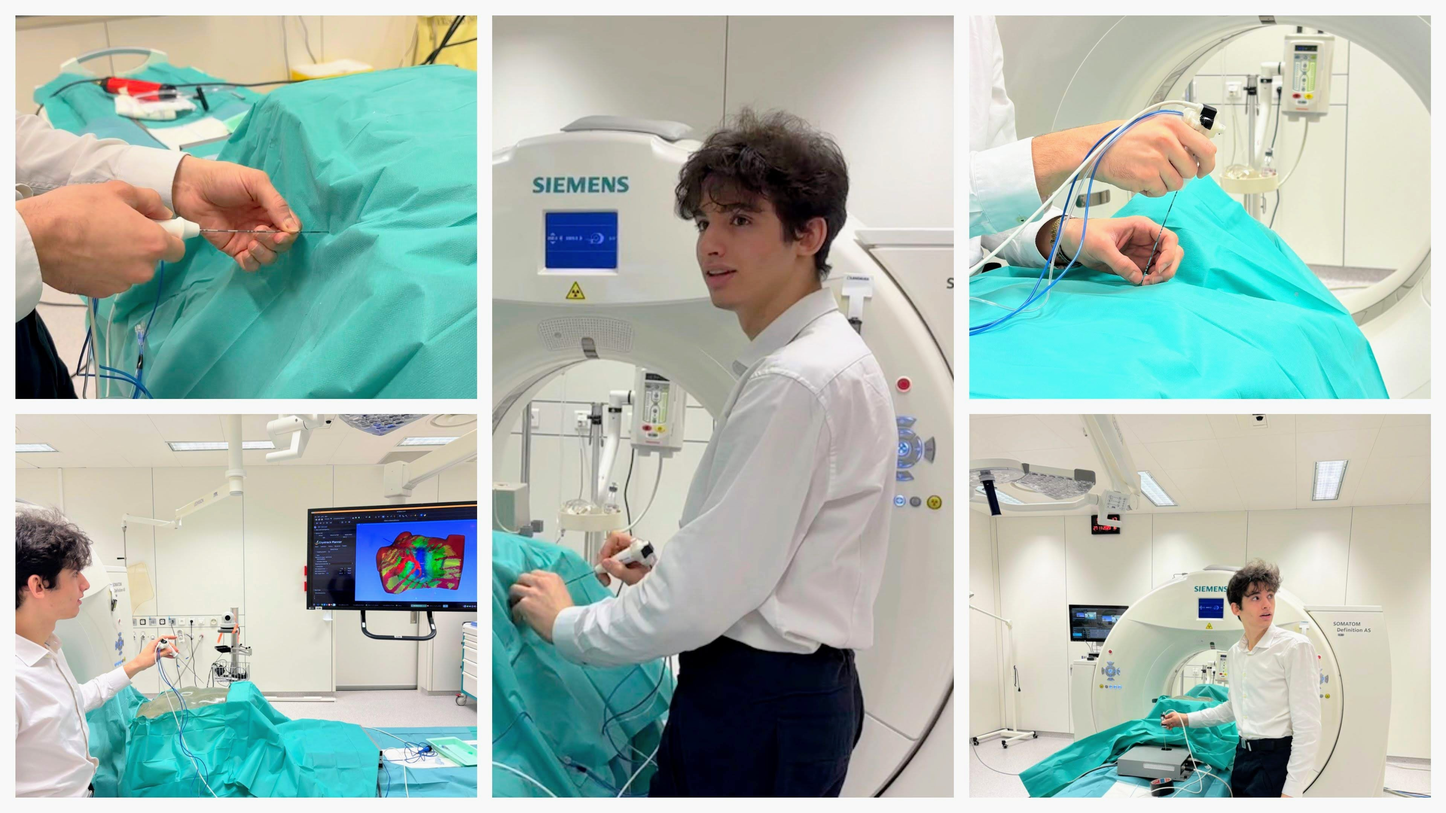
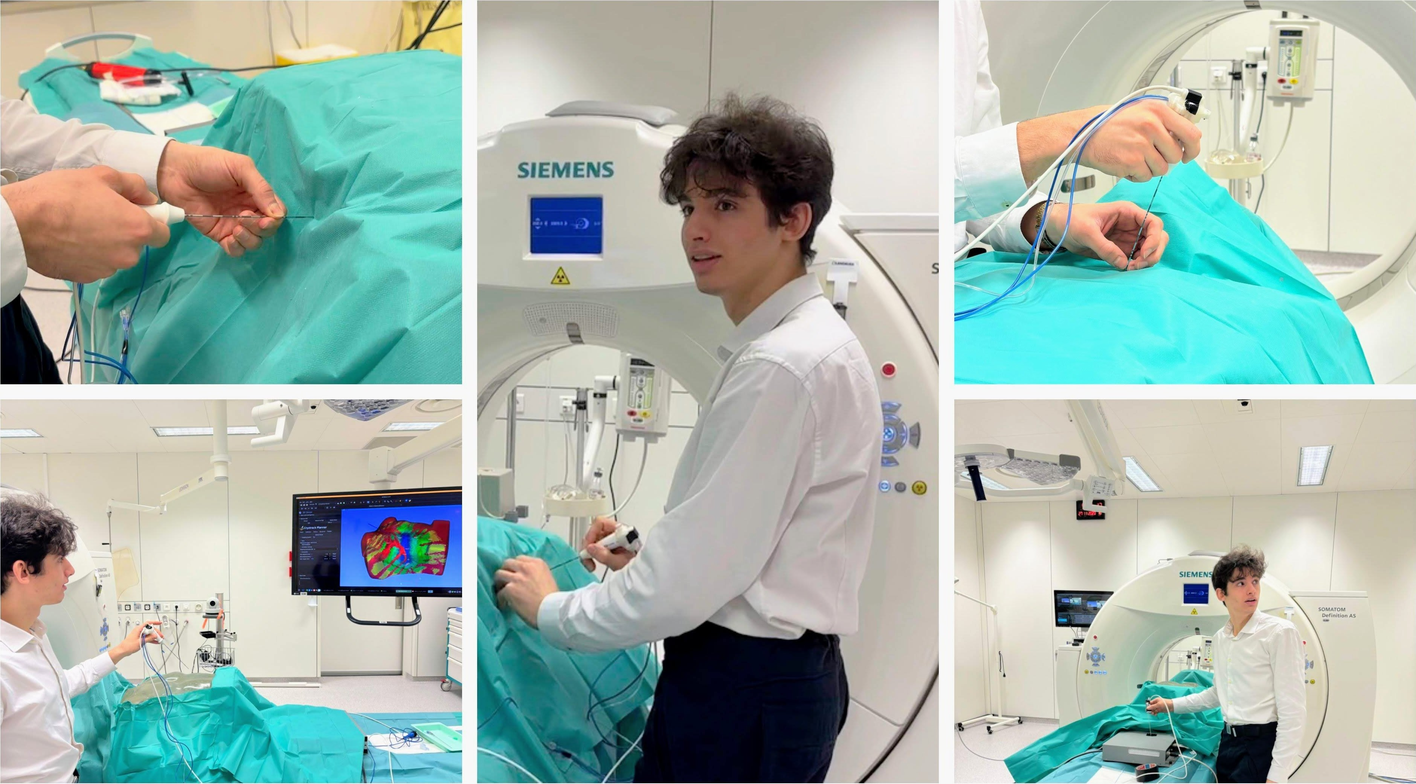
photo bottom gradient sealed to opaque (white scene bleed at corners); fixed beveled-corner artifact

diff --git a/assets/css/main.css b/assets/css/main.css
@@ -103,7 +103,7 @@ html:not(.js) .ignition { display: none; }
 @media (max-width: 980px) { .mleft .photo { max-width: none; } }
 .mleft .photo img { width: 100%; height: 270px; object-fit: cover; object-position: center 20%; display: block; border-radius: 7px; }
 .mleft .photo::after { content: ""; position: absolute; inset: 0; border-radius: 7px;
-    background: linear-gradient(transparent 55%, rgba(12, 15, 20, .88)); }
+    background: linear-gradient(transparent 55%, rgba(12, 15, 20, .92) 80%, #0C0F14 100%); }
 .mleft .photo .tag { position: absolute; left: 14px; bottom: 12px; z-index: 2; font-family: var(--mono);
     font-size: .58rem; letter-spacing: .16em; text-transform: uppercase; color: var(--accent); }
 .mleft h1 { font-size: clamp(1.7rem, 3.6vw, 2.4rem); line-height: 1.12; letter-spacing: -.03em; margin: 22px 0 10px; font-weight: 800; }
